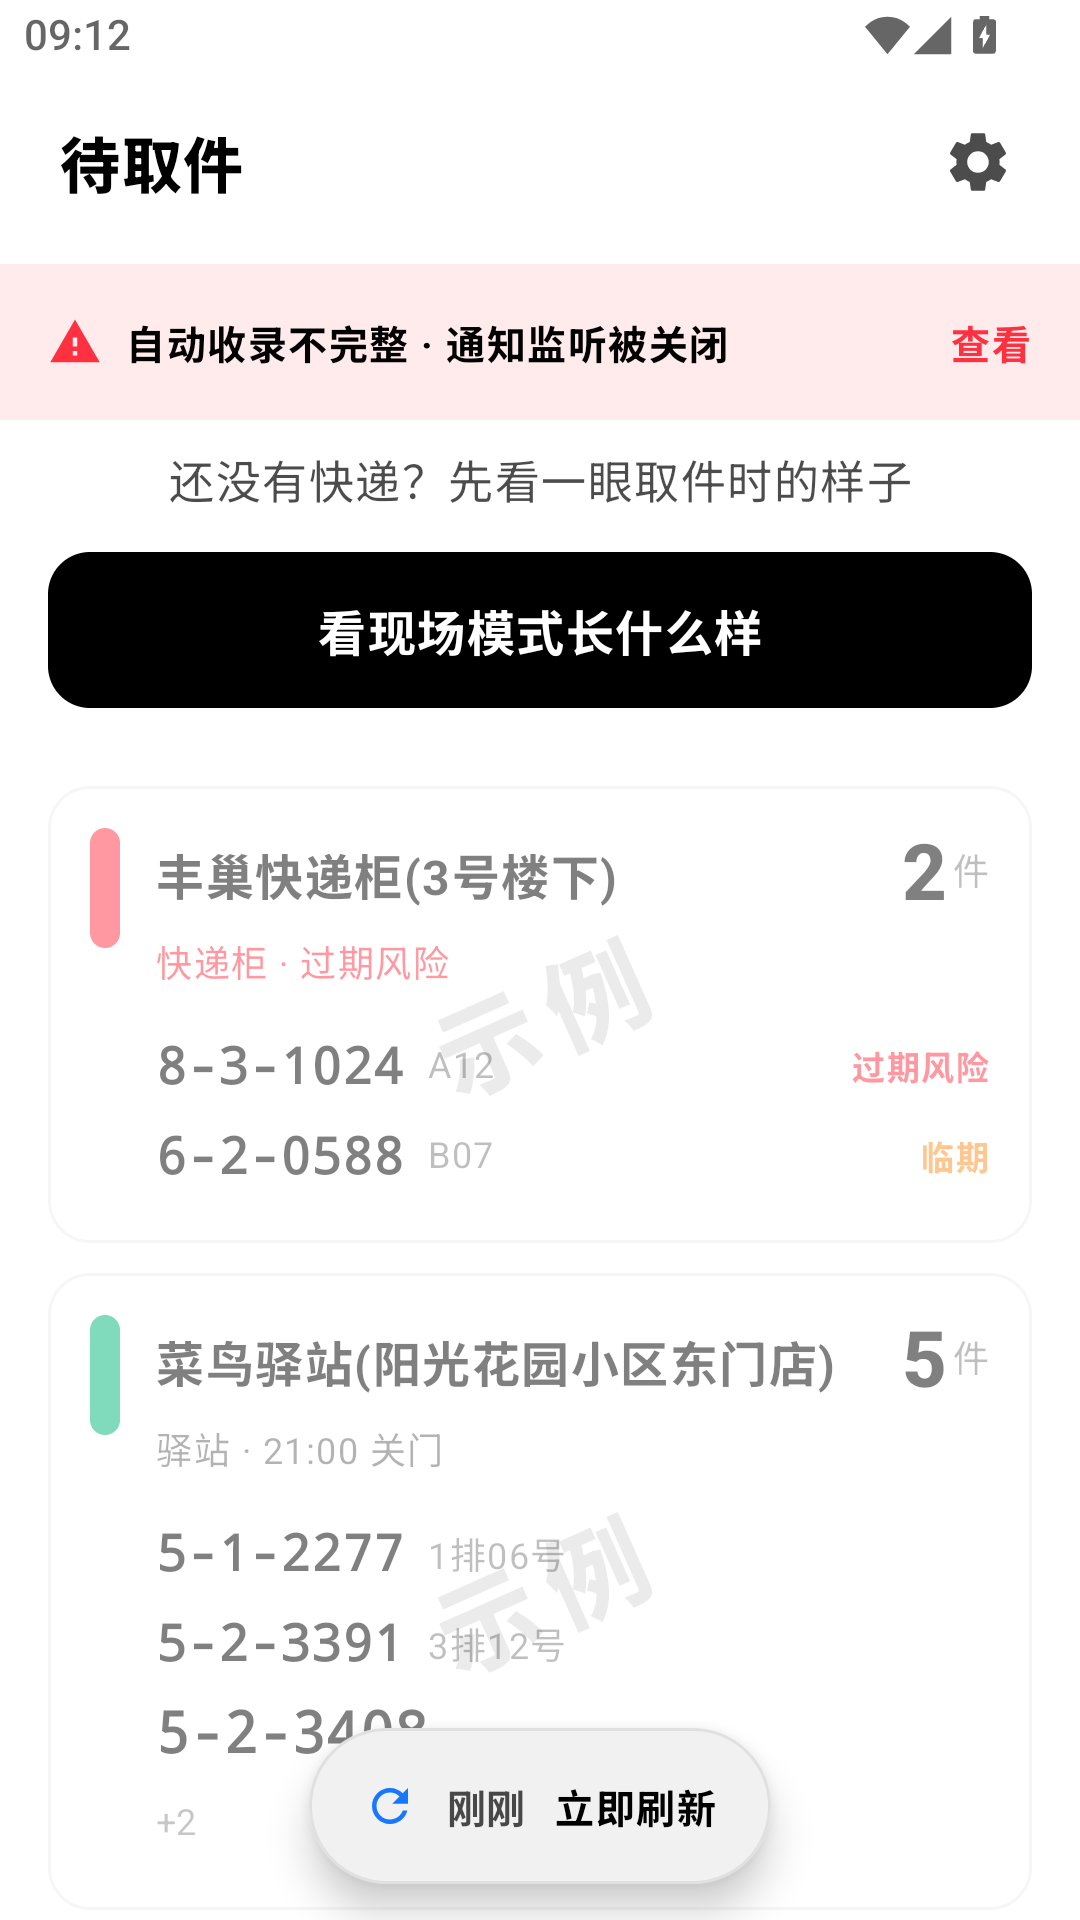
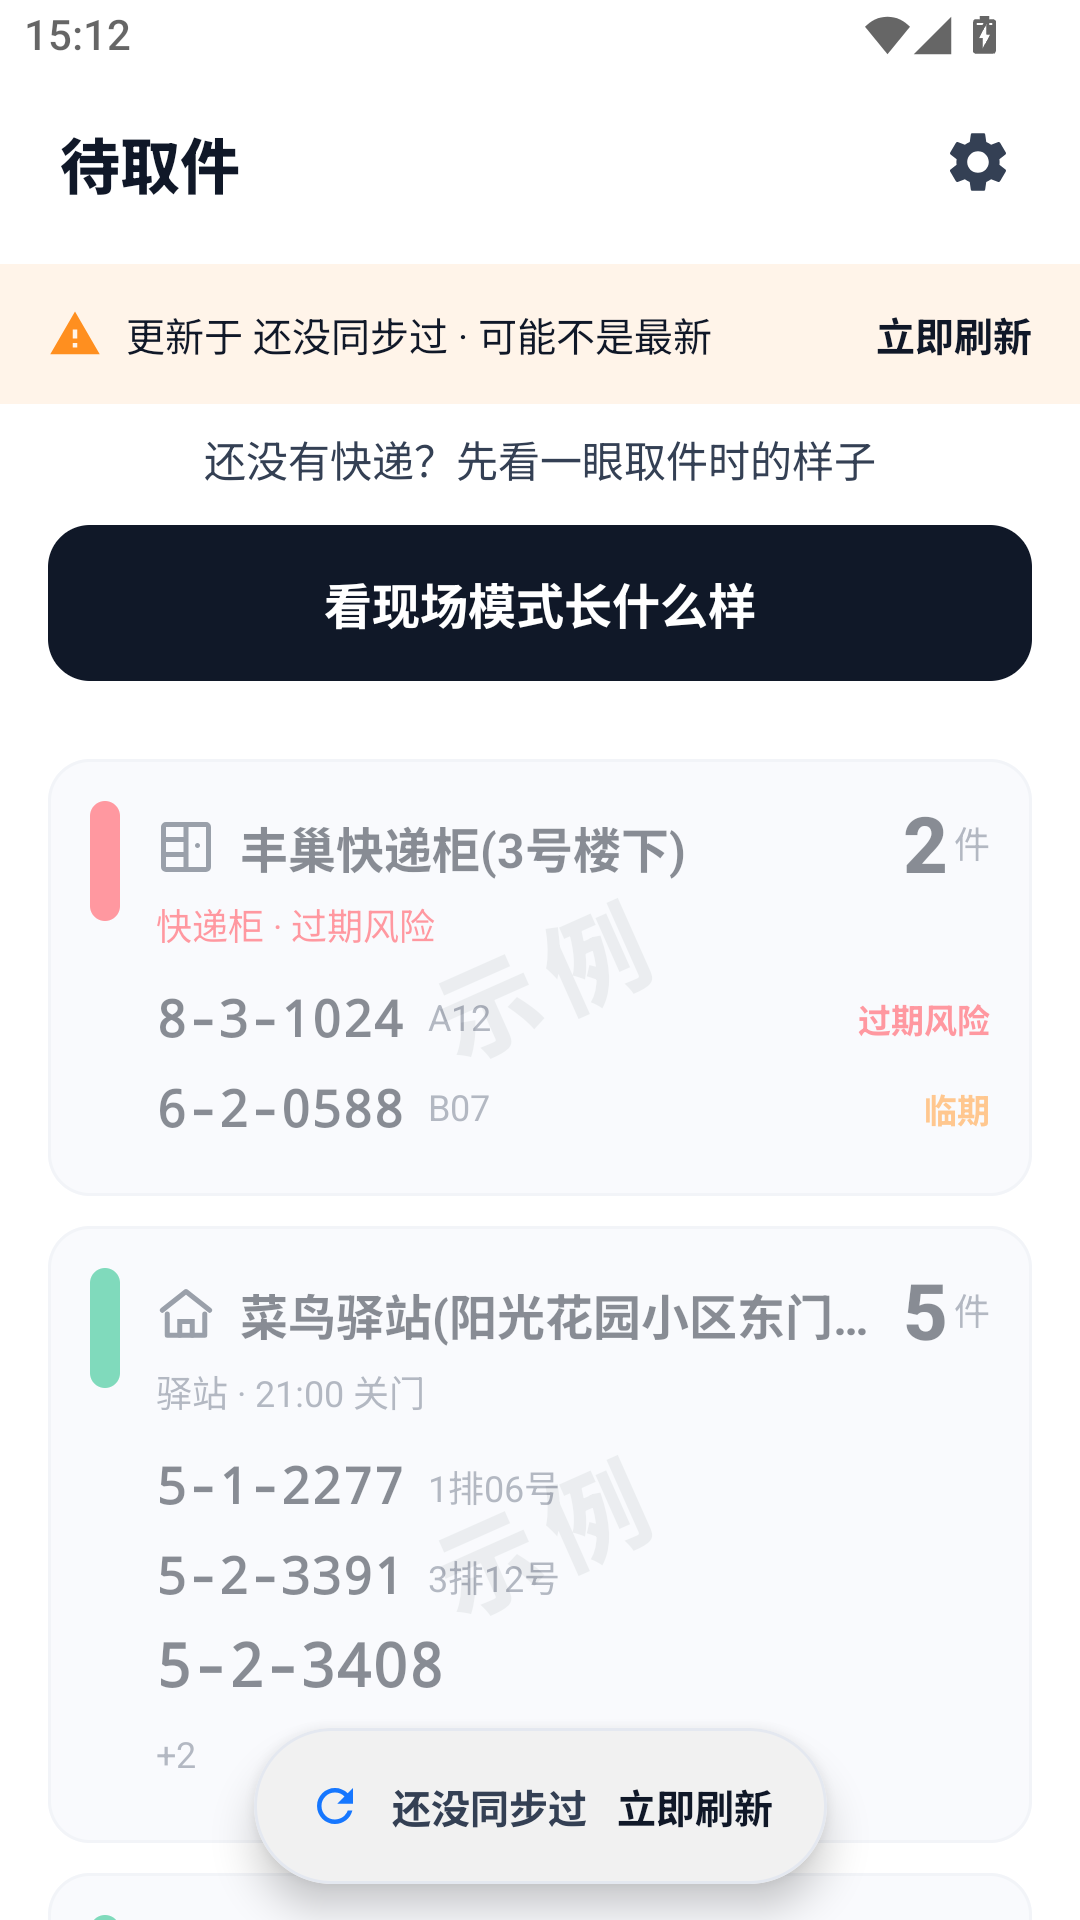
chore(ci): 视觉棘轮进 CI，README 截图与测试计数换新包
tools/visual-audit.py 和 core/parse/corpus 那条识别棘轮同一个做法：地板 = 收口当天实测值，
之后只许更好。不跑在 CI 里的话，本地量完下次被谁改回去是没人知道的。

- 地板：fontSize 裸值 0 / 圆角裸值 0 / 手调文字透明度 0 / 字重 3 档 / 粗体占比 53%
  （基线 86%）/ 三类取件点图标覆盖 100% / 中性面 ≥4 档。
- 脚本必须在 tools/ 而不是 .design-qa/：后者在 .gitignore 里，CI 拿不到文件，
  这一步会直接红（先放错过一次）。
- 现场模式不计入：那一屏的字号由 CodeFontSize 按码长算，拿管理模式的档位要求它是错的。
- README：86 → 91 个单元测试；三张截图换成新包在 MuMu 上的实拍。

diff --git a/tools/visual-audit.py b/tools/visual-audit.py
@@ -1,0 +1,110 @@
+"""亮码视觉系统的棘轮。和 core/parse/corpus 那条识别棘轮同一个做法：
+每档指标有一个**不许下调**的地板，改坏了当场就红，不靠人记住该数什么。
+
+    python3 tools/visual-audit.py            # 打印四张表
+    python3 tools/visual-audit.py --ci       # 低于地板就非零退出
+
+CI 里跑的是 --ci（.github/workflows/ci.yml 的「视觉系统棘轮」那一步）。
+
+现场模式（ui/onsite/）不在计数范围内：那一屏的契约是纯黑 on 纯白 + 三态，
+它本来就该有自己的一套字号算法（CodeFontSize 按码长算），拿管理模式的档位去要求它是错的。
+"""
+import os
+import re
+import sys
+
+ROOT = os.path.join(os.path.dirname(os.path.dirname(os.path.abspath(__file__))), 'app', 'src', 'main')
+ONSITE = os.sep + 'onsite' + os.sep
+
+# ── 地板：只许变好，不许变差 ────────────────────────────────────
+# 沿用 core/parse/corpus 那条识别棘轮的约定：地板 = 收口当天的实测值，之后只许更好。
+# 收口前的真实基线（2026-10-13 量）：fontSize 裸值 126 处 / 14 档，
+# 64 处字重里 Normal 只有 2 处（粗体占比 86%），圆角 10 档，手调文字透明度 77 处 / 18 个值。
+FLOORS = {
+    '管理模式 fontSize 裸值处数': (0, '≤'),
+    '管理模式 字号档数': (0, '≤'),          # 裸值归零之后这一档就是 0，role 数另算
+    '管理模式 字重档数': (3, '≤'),          # 400 / 700 / 800
+    '管理模式 圆角裸值处数': (0, '≤'),
+    '管理模式 手调文字透明度': (0, '≤'),
+    '管理模式 粗体占比': (53, '≤%'),        # 基线 86；剩下的全是标题/动作/数字，正文已全部回 400
+    '取件点类型有图标的比例': (100, '≥%'),
+    '中性面档数': (4, '≥'),
+}
+
+KINDS = ['LOCKER', 'STATION', 'SELFPICK']
+
+
+def kt_files():
+    for dp, _, fs in os.walk(ROOT):
+        for f in fs:
+            if f.endswith('.kt'):
+                yield os.path.join(dp, f)
+
+
+def main():
+    mgmt, onsite = [], []
+    for p in kt_files():
+        (onsite if ONSITE in p else mgmt).append((p, open(p, encoding='utf-8').read()))
+    # token 声明文件自己就是字阶的定义处，不能算进「消费侧」的债
+    THEME = os.path.join('dev', 'showcode', 'ui', 'theme') + os.sep
+    body = ''.join(tx for tp, tx in mgmt if THEME not in tp)
+
+    sizes = [int(x) for x in re.findall(r'fontSize = (\d+)\.sp', body)]
+    weights = re.findall(r'FontWeight\.(\w+)', body)
+    radii = re.findall(r'RoundedCornerShape\((\d+(?:\.\d+)?)\.dp\)', body)
+    # 只有文字色里的 alpha 算债；语义遮罩（水印、tint 底）另有声明值
+    text_alpha = re.findall(r'(?:OnsiteInk|Ink|InkMuted|InkSecondary|Color\.Black)\.copy\(alpha', body)
+    # 粗体占比必须连 role 一起算：迁移之后字重搬进了 TypeScale.kt，
+    # 只数调用点的 FontWeight. 字面量会把「全靠 role 撑着粗体」误报成「已经收敛了」。
+    ts_path = os.path.join(ROOT, 'java', 'dev', 'showcode', 'ui', 'theme', 'TypeScale.kt')
+    role_weight = dict(re.findall(r'val (\w+) = TextStyle\([^)]*?fontWeight = FontWeight\.(\w+)',
+                                   open(ts_path, encoding='utf-8').read(), re.S))
+    role_uses = re.findall(r'ShowCodeText\.(\w+)', body)
+    bold = sum(1 for w in weights if w in ('Bold', 'ExtraBold', 'SemiBold'))
+    bold += sum(1 for r in role_uses if role_weight.get(r, '') in ('Bold', 'ExtraBold', 'SemiBold'))
+    weights_all = list(weights) + [role_weight.get(r, 'Normal') for r in role_uses]
+    total_weight_sites = len(weights_all)
+    roles = len({m.group(1) for m in re.finditer(r'ShowCodeText\.(\w+)', body)})
+    icons_drawn = [f for f in os.listdir(os.path.join(ROOT, 'res', 'drawable')) if f.startswith('ic_point_')]
+    kind_covered = sum(1 for k in KINDS if any(k.lower() in f for f in icons_drawn))
+    surfaces = len(re.findall(r'^val (Canvas|Surface\w+|Hairline\w*) = Color', open(
+        os.path.join(ROOT, 'java', 'dev', 'showcode', 'ui', 'theme', 'Color.kt'), encoding='utf-8').read(), re.M))
+
+    measured = {
+        '管理模式 fontSize 裸值处数': len(sizes),
+        '管理模式 字号档数': len(set(sizes)) if sizes else 0,
+        '管理模式 字重档数': len(set(weights_all)),
+        '管理模式 圆角裸值处数': len(radii),
+        '管理模式 手调文字透明度': len(text_alpha),
+        '管理模式 粗体占比': round(100.0 * bold / max(1, total_weight_sites)),
+        '取件点类型有图标的比例': round(100.0 * kind_covered / len(KINDS)),
+        '中性面档数': surfaces,
+    }
+    detail = {
+        '字号档': sorted(set(sizes)),
+        '字重档': sorted(set(weights)),
+        '圆角档': sorted(set(radii)),
+        'role 引用数': len(re.findall(r'ShowCodeText\.\w+', body)),
+        'role 种数': roles,
+        '现场模式(不计入)': sum(len(re.findall(r'fontSize = (\d+)\.sp', t)) for _, t in onsite),
+    }
+
+    ci = '--ci' in sys.argv
+    print('%-26s %8s %8s  %s' % ('指标', '现在', '地板', '判定'))
+    bad = []
+    for name, (floor, op) in FLOORS.items():
+        now = measured[name]
+        ok = now <= floor if op.startswith('≤') else now >= floor
+        if not ok:
+            bad.append(name)
+        print('%-26s %8s %6s%3s  %s' % (name, now, op, floor, 'OK' if ok else 'X 破了'))
+    print()
+    for k, v in detail.items():
+        print('  %-18s %s' % (k, v))
+    if bad:
+        print('\n破了地板：%s' % '、'.join(bad))
+        sys.exit(1)
+    print('\n地板全部守住。')
+
+
+main()
